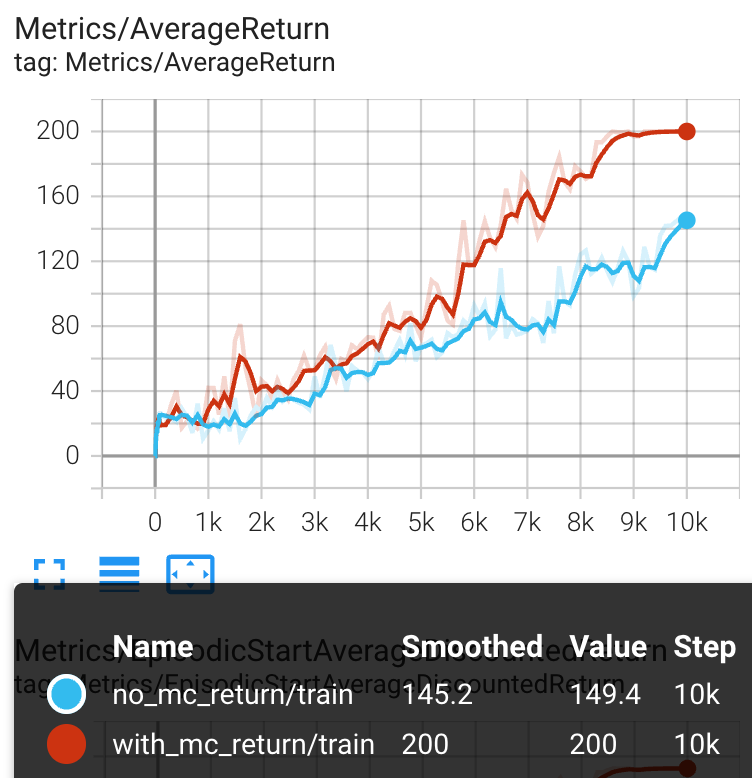
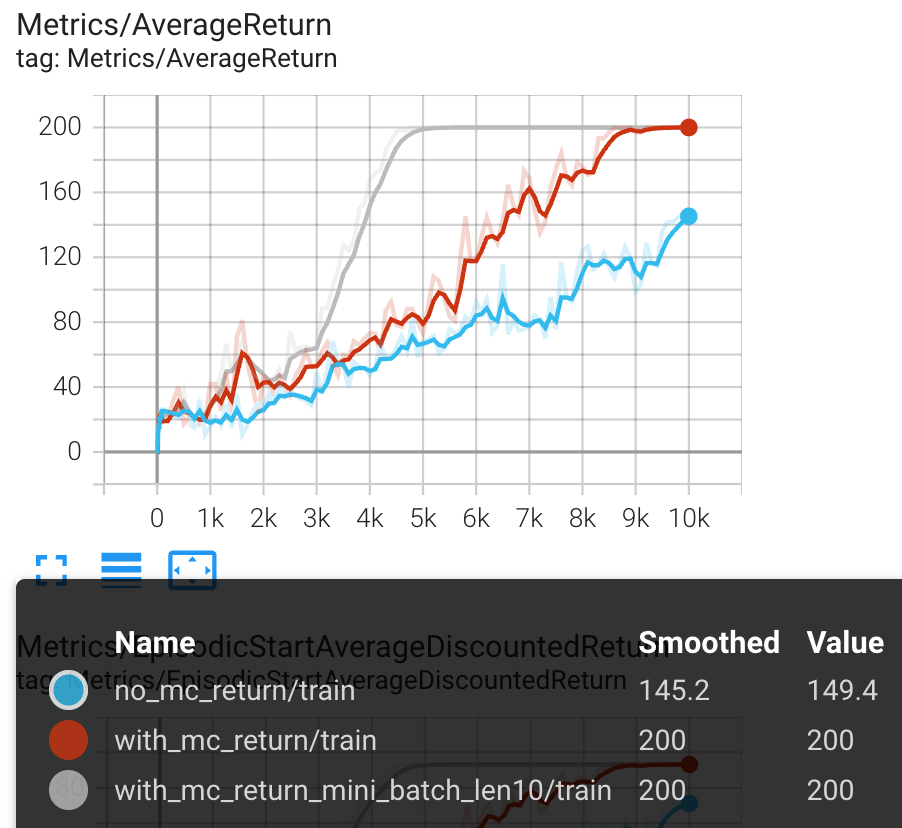
Support multi-step td

Changed region(s): [[0.0, 0.1234, 1.0, 1.0], [0.0, 0.0, 0.4588, 0.1234], [0.887, 0.3702, 0.9176, 0.4627]]

diff --git a/alf/algorithms/sac_algorithm.py b/alf/algorithms/sac_algorithm.py
@@ -28,6 +28,8 @@ from alf.algorithms.config import TrainerConfig
 from alf.algorithms.off_policy_algorithm import OffPolicyAlgorithm
 from alf.algorithms.one_step_loss import OneStepTDLoss
 from alf.algorithms.rl_algorithm import RLAlgorithm
+from alf.experience_replayers.replay_buffer import ReplayBuffer
+from alf.nest.utils import convert_device
 from alf.data_structures import TimeStep, Experience, LossInfo, namedtuple
 from alf.data_structures import AlgStep, StepType
 from alf.nest import nest
@@ -1074,13 +1076,23 @@ class SacAlgorithm(OffPolicyAlgorithm):
     def preprocess_experience(self, time_step: TimeStep, rollout_info: SacInfo,
                               batch_info):
 
-        _, mini_batch_length = time_step.step_type.shape
-        discounted_return = batch_info.discounted_return
-        discounted_return = discounted_return.unsqueeze(1).expand(
-            -1, mini_batch_length)
-        rollout_info = alf.nest.set_field(
-            rollout_info, 'discounted_return',
-            discounted_return if self._use_mc_return else ())
+        if self._use_mc_return:
+            assert batch_info != ()
+            replay_buffer: ReplayBuffer = batch_info.replay_buffer
+            mini_batch_length = time_step.step_type.shape[1]
+
+            with alf.device(replay_buffer.device):
+                # [B, 1]
+                positions = convert_device(batch_info.positions).unsqueeze(-1)
+                # [B, 1]
+                env_ids = convert_device(batch_info.env_ids).unsqueeze(-1)
+                # [B, T]
+                positions = positions + torch.arange(mini_batch_length)
+                discounted_return = replay_buffer.get_discounted_return(
+                    env_ids=env_ids, positions=positions)
+                discounted_return = convert_device(discounted_return)
+            rollout_info = rollout_info._replace(
+                discounted_return=discounted_return)
         return time_step, rollout_info
 
     def _trainable_attributes_to_ignore(self):

diff --git a/alf/experience_replayers/replay_buffer.py b/alf/experience_replayers/replay_buffer.py
@@ -839,6 +839,25 @@ class ReplayBuffer(RingBuffer):
         result = alf.nest.map_structure(lambda x: x[indices], field)
         return convert_device(result)
 
+    def get_discounted_return(self, env_ids, positions):
+        """Get discounted return from the replay buffer by ``env_ids`` and ``positions``.
+
+        Args:
+            env_ids (Tensor): 1-D int64 Tensor.
+            positions (Tensor): 1-D int64 Tensor with same shape as ``env_ids``.
+                These positions should be obtained from the BatchInfo returned
+                by ``get_batch()``.
+        Returns:
+            Tensor: with the same shape as broadcasted shape of env_ids and positions
+        """
+        current_pos = self._current_pos[env_ids]
+        assert torch.all(positions < current_pos), "Invalid positions"
+        assert torch.all(positions >= current_pos -
+                         self._max_length), "Invalid positions"
+        indices = (env_ids, self.circular(positions))
+        result = self._episodic_discounted_return[indices]
+        return convert_device(result)
+
     @property
     def total_size(self):
         """Total size from all environments."""

diff --git a/alf/examples/sac_cart_pole_mc_return_conf.py b/alf/examples/sac_cart_pole_mc_return_conf.py
@@ -20,6 +20,7 @@ alf.import_config("sac_cart_pole_conf.py")
 
 default_return = -1000
 use_mc_return = True
+mini_batch_length = 2  # set to a value > 2 for multi-step learning
 
 alf.config("ReplayBuffer",
            keep_episodic_info=True,
@@ -27,3 +28,5 @@ alf.config("ReplayBuffer",
            default_return=default_return)
 alf.config("TDLoss", default_return=default_return)
 alf.config("SacAlgorithm", use_mc_return=use_mc_return)
+
+alf.config('TrainerConfig', mini_batch_length=mini_batch_length)
